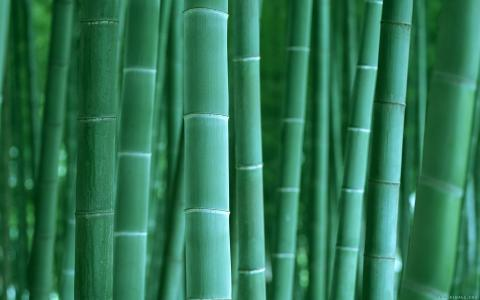
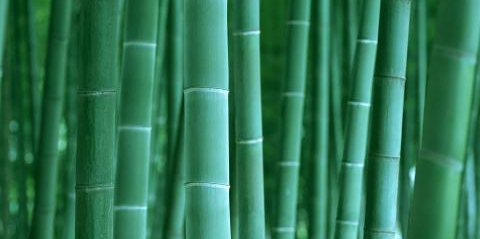
更新2018053012

diff --git a/index.html b/index.html
@@ -214,7 +214,7 @@
 								</div>
 
 								<article>
-									<a href="#" class="image"><img src="images/pic04.png" alt="" /></a>
+									<a href="#" class="image"><img src="images/pic04.jpg" alt="" /></a>
 									<div class="inner">
 									</div>
 								</article>
